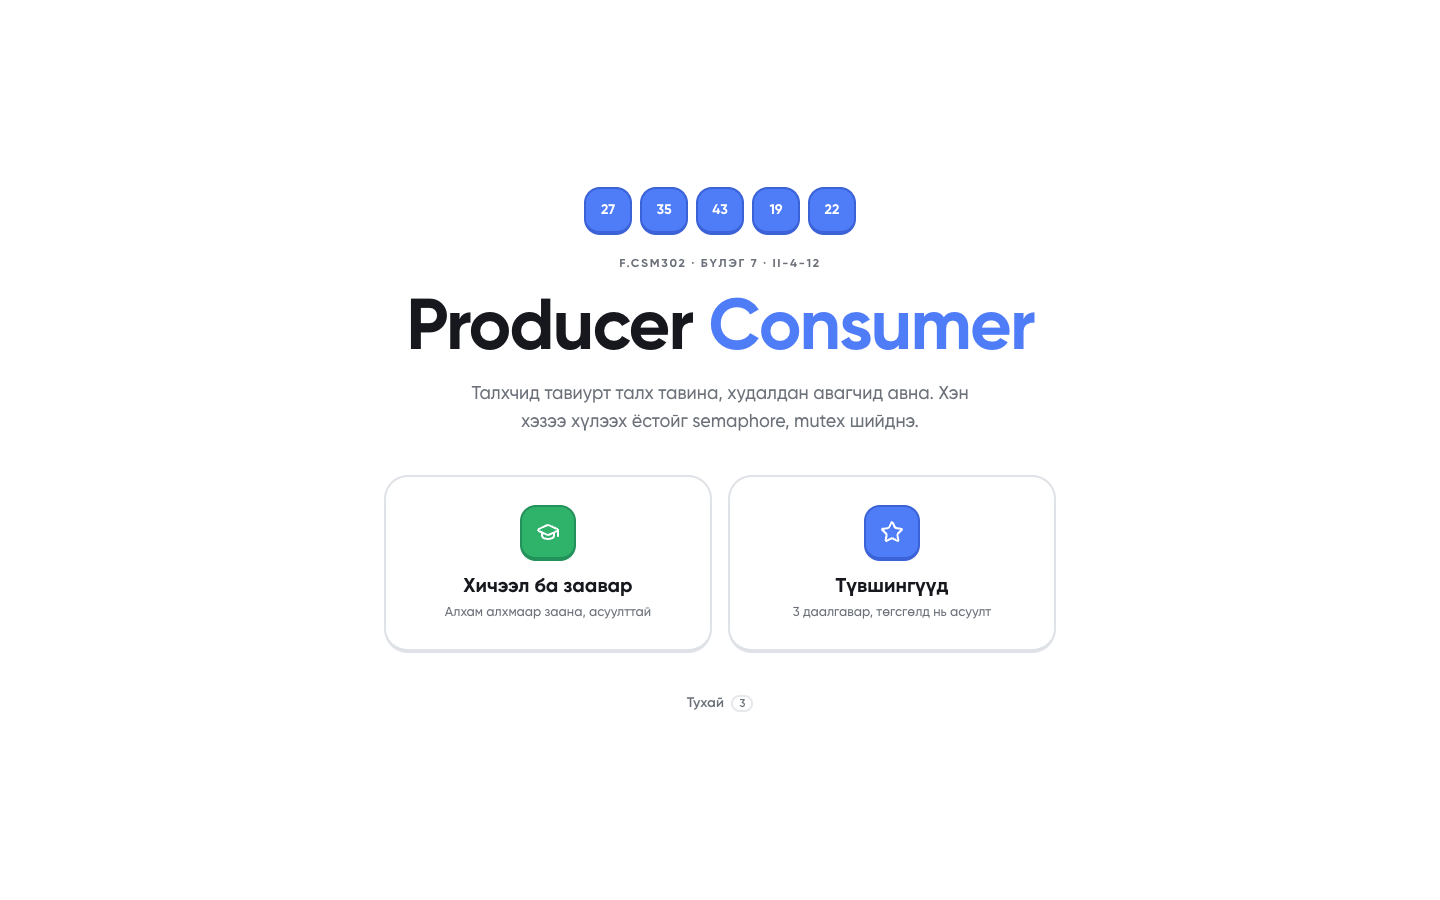
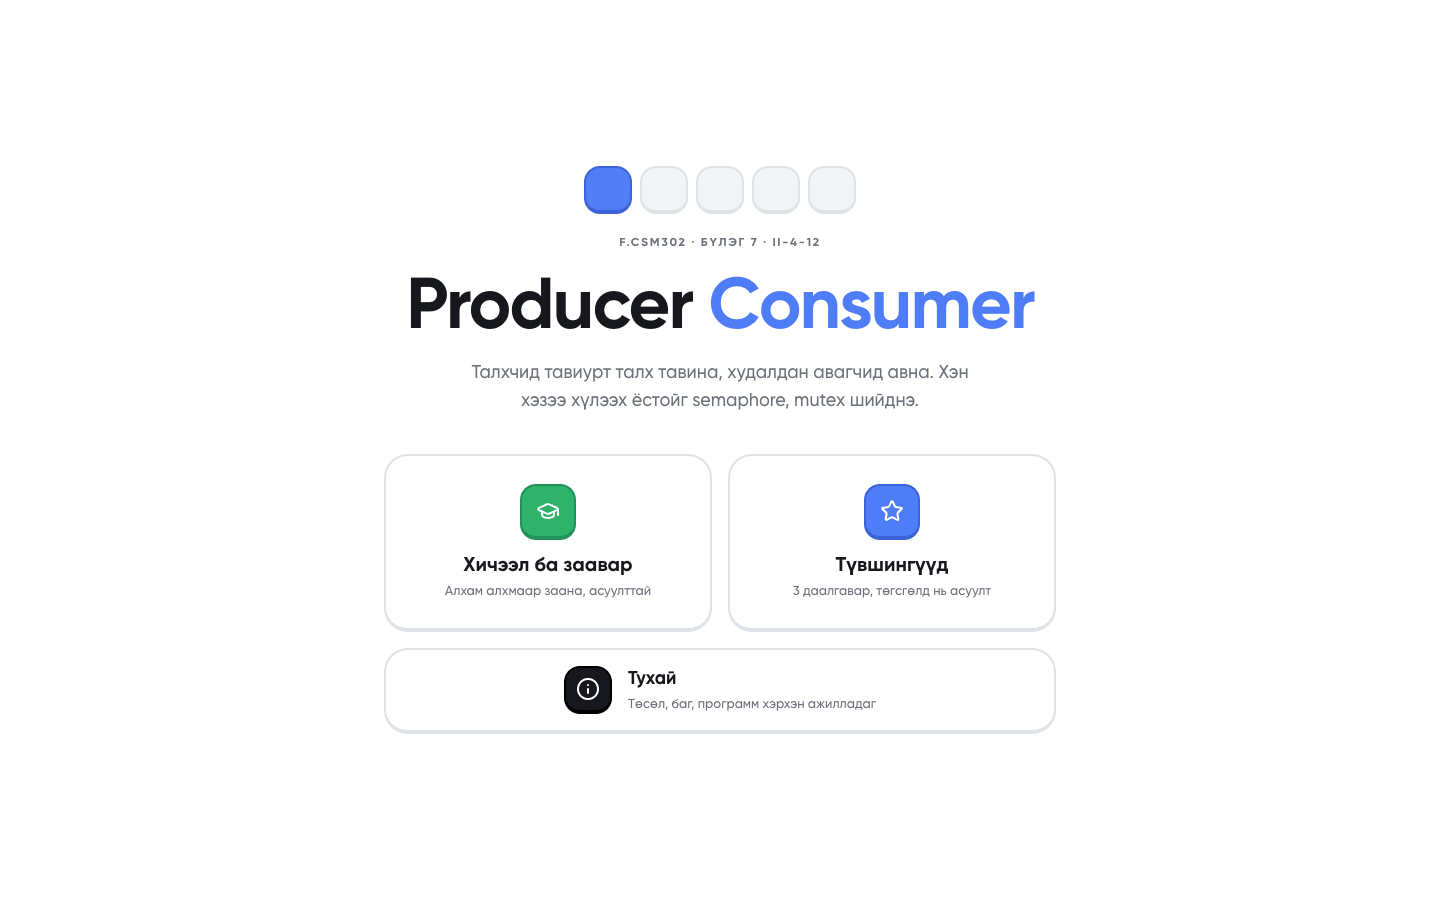
fix: about as a wide second-row menu tile

Changed region(s): [[0.2812, 0.1867, 0.7188, 0.84]]

diff --git a/src/components/menu.tsx b/src/components/menu.tsx
@@ -3,16 +3,18 @@
 import { useEffect, useMemo, useRef, useState } from "react"
 import Link from "next/link"
 import { useRouter } from "next/navigation"
-import { GraduationCapIcon, StarIcon, type LucideIcon } from "lucide-react"
+import { GraduationCapIcon, InfoIcon, StarIcon, type LucideIcon } from "lucide-react"
 import { snapAt } from "@/components/buffer-views"
 import type { RunConfig } from "@/lib/config"
 import { buildModel } from "@/lib/model"
 import { lastAt, useRun } from "@/lib/use-run"
 import { cn } from "@/lib/utils"
 
-const ITEMS: { href: string; title: string; sub: string; icon: LucideIcon; tone: string }[] = [
+const ITEMS: { href: string; title: string; sub: string; icon: LucideIcon; tone: string; wide?: boolean }[] = [
   { href: "/learn", title: "Хичээл ба заавар", sub: "Алхам алхмаар заана, асуулттай", icon: GraduationCapIcon, tone: "border-now-edge bg-now" },
   { href: "/levels", title: "Түвшингүүд", sub: "3 даалгавар, төгсгөлд нь асуулт", icon: StarIcon, tone: "border-produce-edge bg-produce" },
+  // Second row, full width: a smaller side entry.
+  { href: "/about", title: "Тухай", sub: "Төсөл, баг, программ хэрхэн ажилладаг", icon: InfoIcon, tone: "border-black bg-foreground", wide: true },
 ]
 
 // More producers than consumers so the strip is rarely empty.
@@ -80,8 +82,7 @@ export function Menu() {
       if (e.key === "ArrowRight" || e.key === "ArrowDown") { e.preventDefault(); setSel((s) => (s === null ? 0 : (s + 1) % ITEMS.length)) }
       else if (e.key === "ArrowLeft" || e.key === "ArrowUp") { e.preventDefault(); setSel((s) => ((s ?? 0) + ITEMS.length - 1) % ITEMS.length) }
       else if (e.key === "Enter" && sel !== null && !(e.target as HTMLElement).closest("a, button")) router.push(ITEMS[sel].href)
-      else if (/^[12]$/.test(e.key)) router.push(ITEMS[Number(e.key) - 1].href)
-      else if (e.key === "3") router.push("/about")
+      else if (/^[1-3]$/.test(e.key)) router.push(ITEMS[Number(e.key) - 1].href)
     }
     window.addEventListener("keydown", onKey)
     return () => window.removeEventListener("keydown", onKey)
@@ -112,25 +113,22 @@ export function Menu() {
               onFocus={() => setSel(i)}
               onBlur={() => setSel(null)}
               className={cn(
-                "tactile flex items-center gap-4 rounded-3xl border-edge bg-background p-5 text-left transition-[transform,border-color] duration-100 hover:-translate-y-1 hover:border-foreground focus-visible:outline-none active:translate-y-0.5 active:border-b-2 sm:flex-col sm:items-center sm:gap-3 sm:p-7 sm:text-center",
+                "tactile flex items-center gap-4 rounded-3xl border-edge bg-background p-5 text-left transition-[transform,border-color] duration-100 hover:-translate-y-1 hover:border-foreground focus-visible:outline-none active:translate-y-0.5 active:border-b-2",
+                it.wide ? "sm:col-span-2 sm:justify-center sm:py-4" : "sm:flex-col sm:items-center sm:gap-3 sm:p-7 sm:text-center",
                 sel === i && "-translate-y-1 border-foreground",
               )}
             >
-              <span className={cn("tactile flex size-12 shrink-0 items-center justify-center rounded-2xl text-white sm:size-14", it.tone)}>
+              <span className={cn("tactile flex size-12 shrink-0 items-center justify-center rounded-2xl text-white", !it.wide && "sm:size-14", it.tone)}>
                 <Icon className="size-6" />
               </span>
               <span className="flex flex-col gap-1">
-                <b className="text-lg leading-tight sm:text-xl">{it.title}</b>
+                <b className={cn("text-lg leading-tight", !it.wide && "sm:text-xl")}>{it.title}</b>
                 <span className="text-[13px] text-muted-foreground">{it.sub}</span>
               </span>
             </Link>
           )
         })}
       </nav>
-
-      <Link href="/about" className="text-sm font-semibold text-muted-foreground underline-offset-4 hover:text-foreground hover:underline focus-visible:ring-[3px] focus-visible:ring-ring/40 focus-visible:outline-none">
-        Тухай <span className="ml-1 rounded-md border-2 px-1.5 text-[11px] max-sm:hidden">3</span>
-      </Link>
     </main>
   )
 }

diff --git a/docs/Manual.md b/docs/Manual.md
@@ -24,7 +24,7 @@ npm run dev
 Дараа нь браузерт **http://localhost:3000**-ийг нээхэд эхлэлийн цэс гарна. `npm run dev` нь эхлээд C core-ийг (`src/core/pc`) автоматаар build хийнэ.
 
 ### Эхлэлийн цэс
-Нээхэд тоглоомын цэс шиг эхлэлийн дэлгэц гарна (зураг 8): голд гарчиг, доор нь 2 том товч нэг мөрөнд (Хичээл ба заавар, Түвшингүүд), хамгийн доор Тухай. Гарчгийн дээрх 5 нүд нь жинхэнэ C core-ийн жижиг run бөгөөд тасралтгүй эргэлдэнэ. **← →** (эсвэл ↑ ↓) сонгох, **Enter** нээх, **1–2** горим, **3** Тухай, бусад дэлгэцээс **Esc** дарж цэс рүү буцна.
+Нээхэд тоглоомын цэс шиг эхлэлийн дэлгэц гарна (зураг 8): голд гарчиг, доор нь 2 том товч нэг мөрөнд (Хичээл ба заавар, Түвшингүүд), хоёр дахь мөрөнд бүтэн өргөнтэй Тухай товч. Гарчгийн дээрх 5 нүд нь жинхэнэ C core-ийн жижиг run бөгөөд тасралтгүй эргэлдэнэ. **← →** (эсвэл ↑ ↓) сонгох, **Enter** нээх, **1–2** горим, **3** Тухай, бусад дэлгэцээс **Esc** дарж цэс рүү буцна.
 
 | Цэс | Хаяг | Юу хийх вэ |
 |---|---|---|
